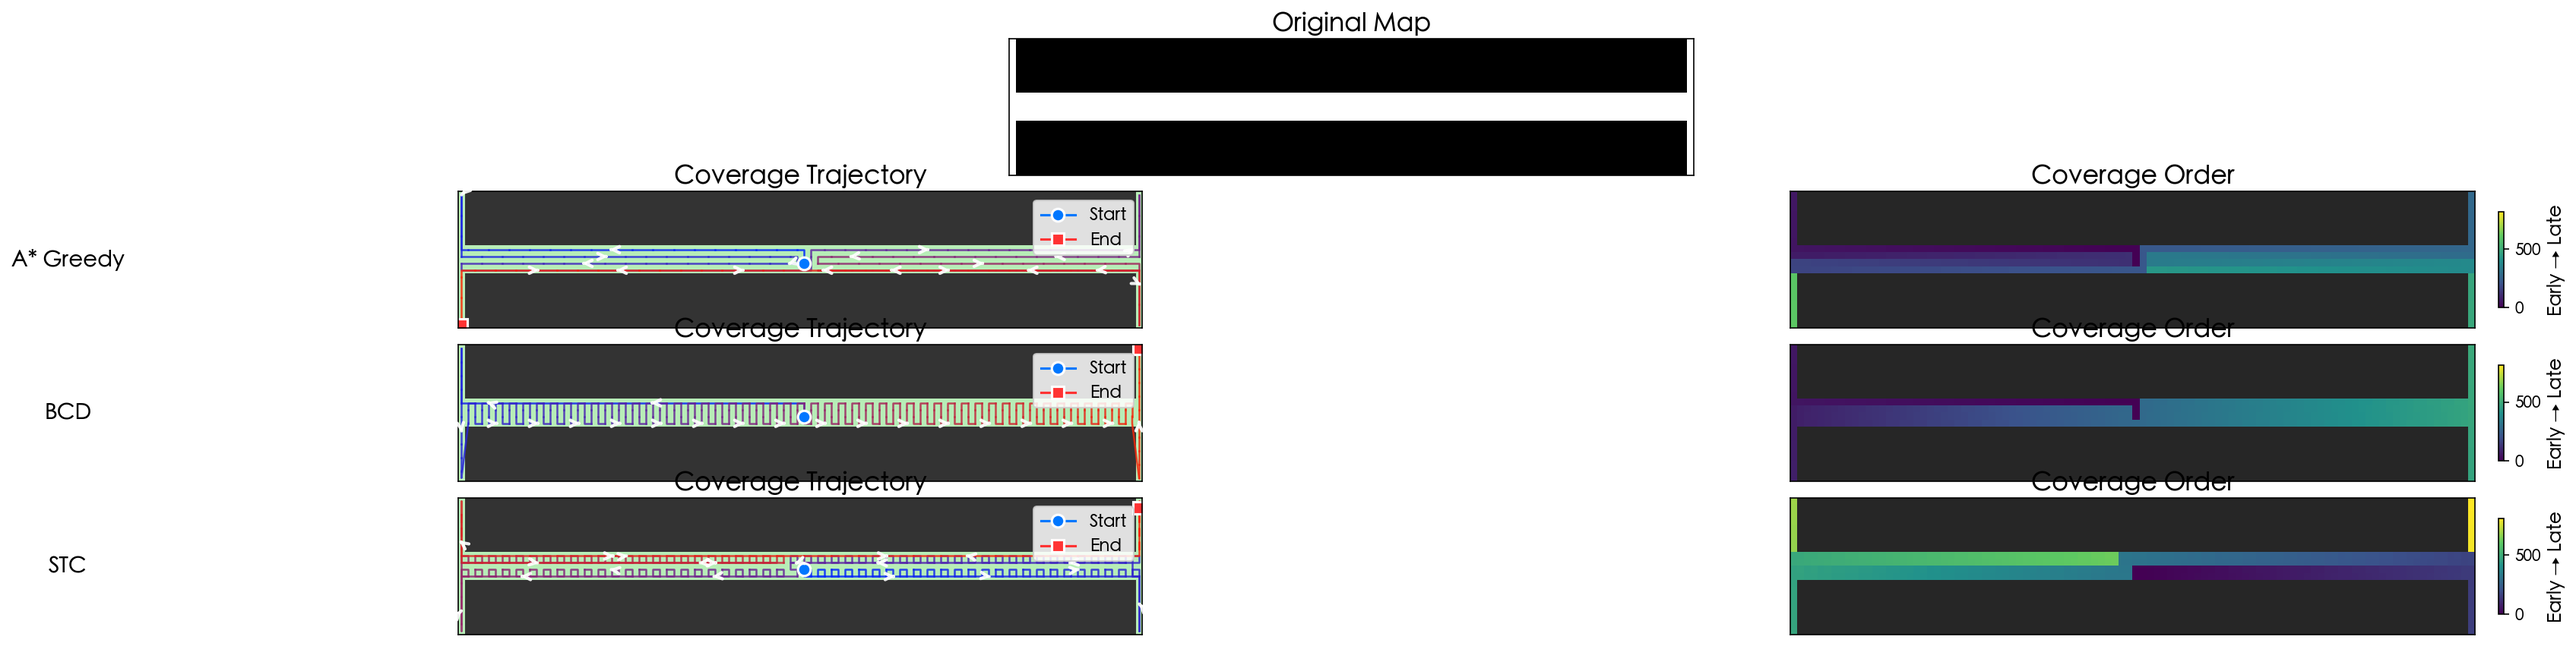
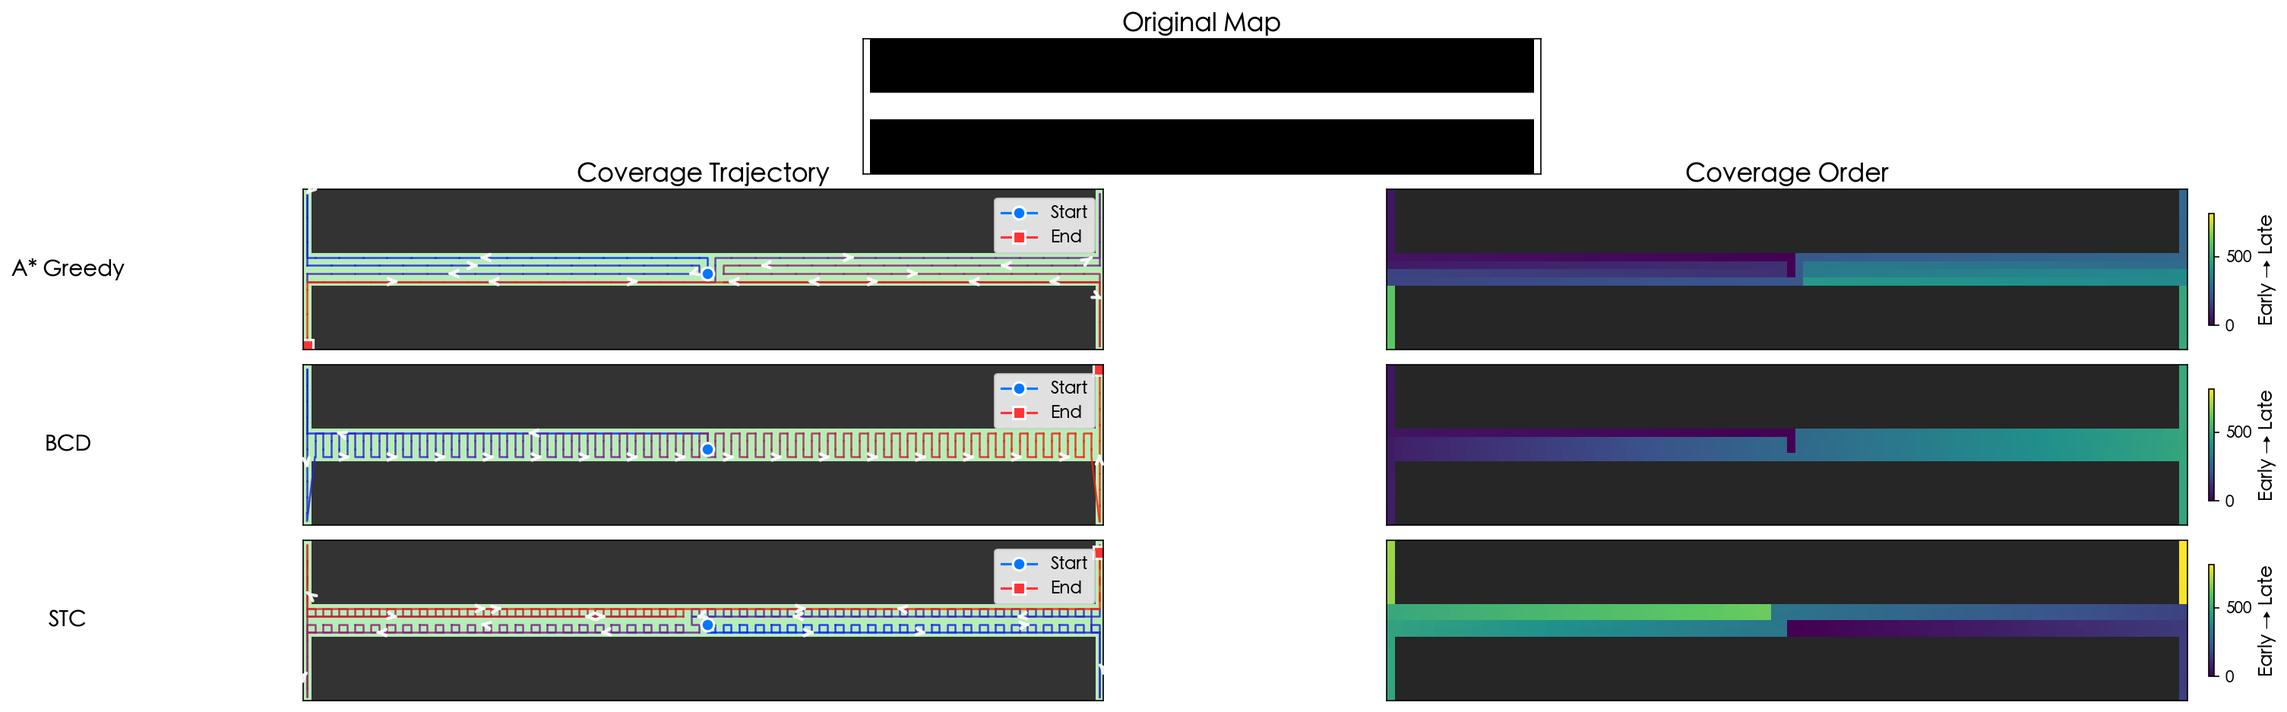
Adaptive aspect ratio + shared column titles in comparison plots
- Figure aspect ratio adapts to map shape: wide maps (corridor) get wider
  figures, square maps (empty, obstacles) get taller figures
- Column titles 'Coverage Trajectory' and 'Coverage Order' only appear
  on the first algorithm row; lower two rows share them implicitly
- Both _plot_coverage_path and _plot_coverage_heatmap accept show_title param

diff --git a/visualization/plotter.py b/visualization/plotter.py
@@ -118,21 +118,28 @@ class CoveragePlotter:
         多算法对比图。
 
         版面 (4 rows × 3 cols)：
-          Row 0  [  Original Map (full width)                ]
-          Row 1  [ A* Greedy label  │ Trajectory  │ Heatmap ]
-          Row 2  [ BCD       label  │ Trajectory  │ Heatmap ]
-          Row 3  [ STC       label  │ Trajectory  │ Heatmap ]
+          Row 0  [  Original Map (full width)                    ]
+          Row 1  [ A* Greedy  │ Coverage Trajectory │ Coverage Order ]
+          Row 2  [ BCD        │       (shared)      │    (shared)     ]
+          Row 3  [ STC        │       (shared)      │    (shared)     ]
 
-        不含表头标题，不含数据指标。
-        热力图使用统一配色尺度。
+        图幅比例根据地图形状自适应（宽地图→偏宽，方地图→偏方）。
+        列标题只出现在第一行，三行共用。
         """
         n = len(results)
-        fig = plt.figure(figsize=(self.figsize[0] * 2.5,
-                                  self.figsize[1] * 0.85))
+        h, w = grid.shape
+        # map aspect ratio, clamped to avoid extreme stretching
+        ar = w / h
+        # target figure aspect: layout_width_ratio * ar + label_column
+        target_ar = max(1.8, min(2.07 * ar, 3.5))
+        fig_w = self.figsize[0] * 2.2
+        fig_h = fig_w / target_ar
+
+        fig = plt.figure(figsize=(fig_w, fig_h))
         gs = GridSpec(n + 1, 3,
-                      height_ratios=[0.25] + [0.25] * n,
-                      width_ratios=[0.07, 1, 1],
-                      hspace=0.12, wspace=0.12)
+                      height_ratios=[0.22] + [0.26] * n,
+                      width_ratios=[0.06, 1, 1],
+                      hspace=0.10, wspace=0.10)
 
         # Row 0: original map
         ax_map = fig.add_subplot(gs[0, :])
@@ -143,21 +150,27 @@ class CoveragePlotter:
         max_path_len = max(len(results[p][0]) for p in pl_names)
 
         for i, planner_name in enumerate(pl_names):
-            path, covered, metrics = results[planner_name]
+            path, covered, _ = results[planner_name]
             row = i + 1
 
             # Algorithm label
             ax_lbl = fig.add_subplot(gs[row, 0])
             self._plot_algo_label(ax_lbl, planner_name)
 
-            # Trajectory
+            # Trajectory (title only on first row)
             ax_traj = fig.add_subplot(gs[row, 1])
-            self._plot_coverage_path(ax_traj, grid, path, covered)
+            self._plot_coverage_path(
+                ax_traj, grid, path, covered,
+                show_title=(i == 0)
+            )
 
-            # Heatmap (unified vmax)
+            # Heatmap (title only on first row)
             ax_heat = fig.add_subplot(gs[row, 2])
-            self._plot_coverage_heatmap(ax_heat, grid, path, covered,
-                                        vmin=0, vmax=max_path_len)
+            self._plot_coverage_heatmap(
+                ax_heat, grid, path, covered,
+                vmin=0, vmax=max_path_len,
+                show_title=(i == 0)
+            )
 
         plt.tight_layout()
         os.makedirs(output_dir, exist_ok=True)
@@ -186,6 +199,7 @@ class CoveragePlotter:
         grid: np.ndarray,
         path: List[Tuple[int, int]],
         covered: np.ndarray,
+        show_title: bool = True,
     ) -> None:
         height, width = grid.shape
 
@@ -229,7 +243,9 @@ class CoveragePlotter:
             ax.legend(loc='upper right', fontsize=self._legend_fs,
                       framealpha=0.85, edgecolor='#cccccc')
 
-        ax.set_title('Coverage Trajectory', fontsize=self._title_fs, pad=4)
+        if show_title:
+            ax.set_title('Coverage Trajectory',
+                         fontsize=self._title_fs, pad=4)
         ax.set_xticks([])
         ax.set_yticks([])
 
@@ -271,6 +287,7 @@ class CoveragePlotter:
         covered: np.ndarray,
         vmin: float = 0.0,
         vmax: Optional[float] = None,
+        show_title: bool = True,
     ) -> None:
         height, width = grid.shape
         vmax = vmax or float(len(path))
@@ -290,7 +307,9 @@ class CoveragePlotter:
                 display[y, x] = colours[idx]
 
         ax.imshow(display, interpolation='nearest')
-        ax.set_title('Coverage Order', fontsize=self._title_fs, pad=4)
+        if show_title:
+            ax.set_title('Coverage Order',
+                         fontsize=self._title_fs, pad=4)
         ax.set_xticks([])
         ax.set_yticks([])
 
